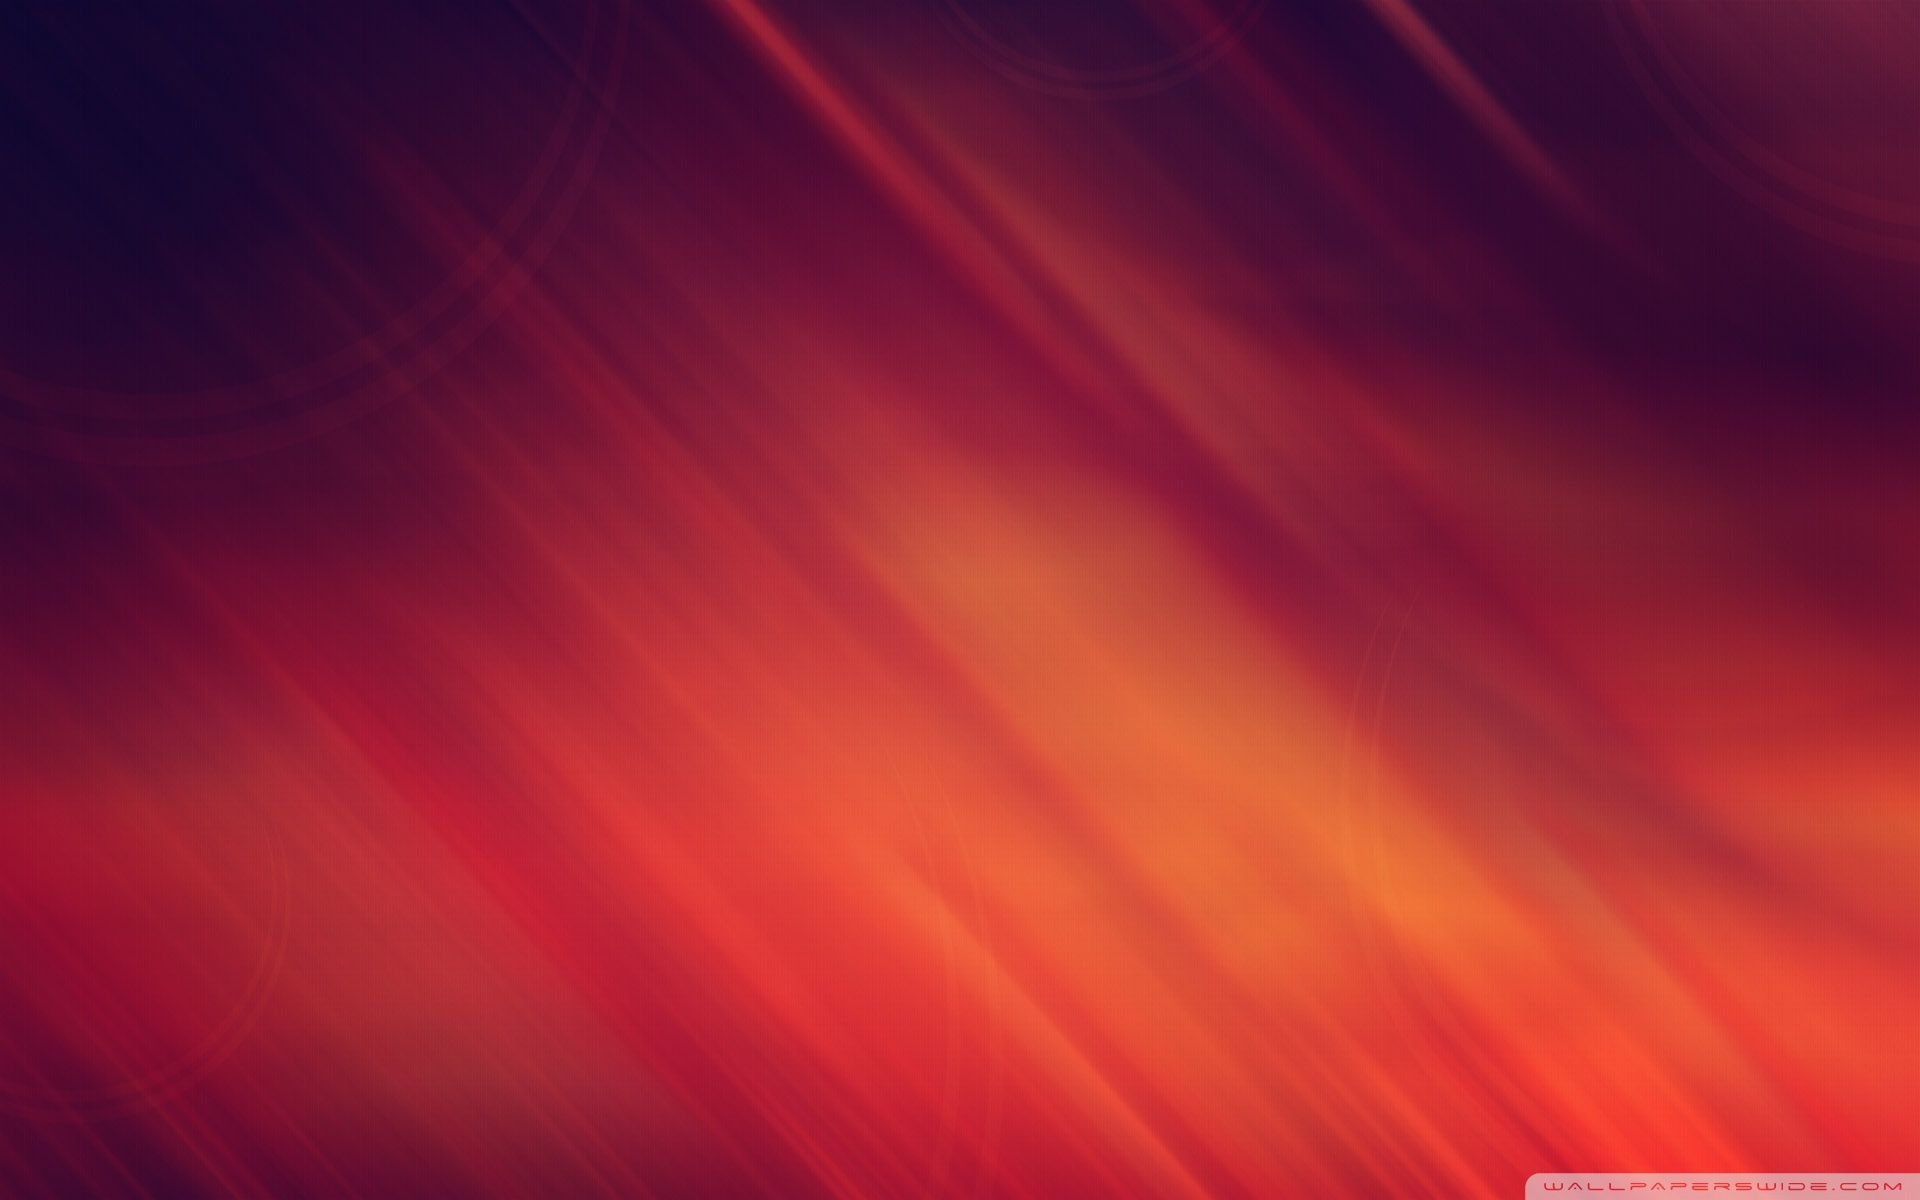
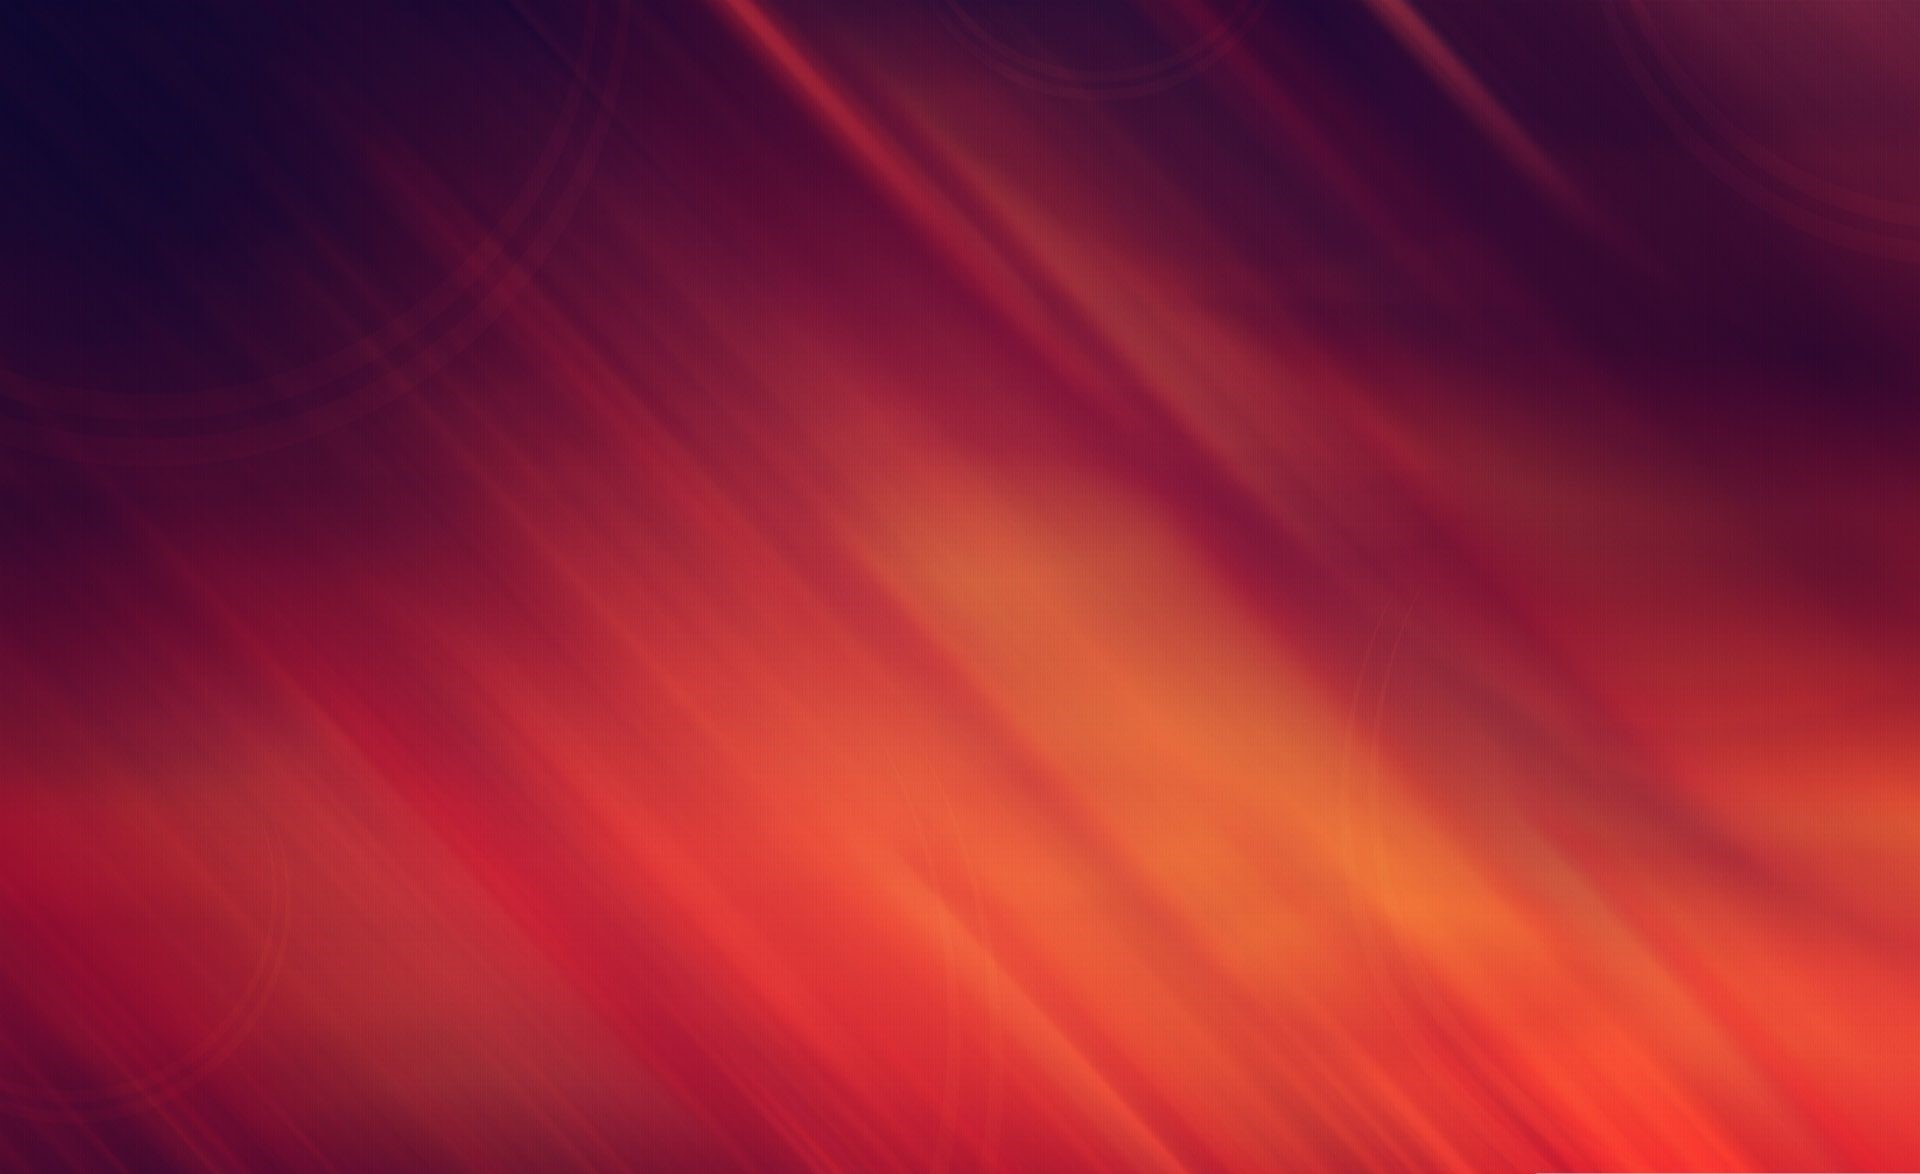
implemented background change on login component

diff --git a/src/app/main/login.component.ts b/src/app/main/login.component.ts
@@ -1,10 +1,25 @@
-import { Component } from '@angular/core';
+import { Component, OnInit, OnDestroy } from '@angular/core';
+import { ActivatedRoute } from '@angular/router';
 
 @Component({
-   templateUrl: './login.component.html',
-   styleUrls: ['./login.component.css'] 
+    templateUrl: './login.component.html',
+    styleUrls: ['./login.component.css']
 })
 
-export class LoginComponent {
+export class LoginComponent implements OnInit, OnDestroy {
+    currentPath: string;
+    body: HTMLBodyElement;
 
+    constructor(private route: ActivatedRoute) {
+        this.currentPath = this.route.snapshot.url[0].path;
+    }
+
+    ngOnInit(): void {
+        this.body = document.getElementsByTagName('body')[0];
+        this.body.classList.add(this.currentPath)
+    }
+    
+    ngOnDestroy(): void {
+        this.body.classList.remove(this.currentPath)      
+      }
 }

diff --git a/src/styles.css b/src/styles.css
@@ -3,13 +3,20 @@ html, body {
     font-family: 'Gill Sans', 'Gill Sans MT', Calibri, 'Trebuchet MS', sans-serif;
     margin: 0;
     overflow-x: hidden;
-    background-color: rgb(245, 247, 245);
+    background-color: rgb(220, 222, 220);
 }
 
 body{
     position: relative;
     min-height: 100vh;
     min-height: 100%;
+}
+
+.login{
+    background-image: url(./assets/images/bg.jpg);
+    background-attachment: fixed;
+    background-size: cover;
+    background-repeat: no-repeat;
 }
 
 

diff --git a/src/app/nav/navbar.component.html b/src/app/nav/navbar.component.html
@@ -13,7 +13,7 @@
               <a class="nav-link contact link" id="contact" [routerLink]="['/contact']" routerLinkActive="active" >Contact</a>
             </li>
             <li class="nav-item">
-              <a class="nav-link login link" id="login" [routerLink]="['/login']" routerLinkActive="active" >Login</a>
+              <a class="nav-link link" id="login" [routerLink]="['/login']" routerLinkActive="active" >Login</a>
             </li>
           </ul>
         </div>

diff --git a/src/app/main/login.component.css b/src/app/main/login.component.css
@@ -19,16 +19,18 @@
 
 .container {
     margin-top: 100px;
-    margin-bottom: 200px;
+    margin-bottom: 100px;
     width: 40%;
-    max-width: 500px;
+    max-width: 400px;
     min-width: 300px;
     background-color: white;
     padding: 10px;
     border-radius: 8px;
     position: relative;
 }
-
+:host.login{
+    background-color: rgb(187, 255, 0);
+}
 form {
     text-align: left;
     padding: 30px;

diff --git a/src/app/main/login.component.html b/src/app/main/login.component.html
@@ -13,7 +13,7 @@
                 <input type="password" required placeholder="Password">
             </p>
             <p class="button-wrapper">
-                <button class="login" type="submit" disabled>Sign In</button>
+                <button class="sign-in" type="submit" disabled>Sign In</button>
             </p>
         </form>
 

diff --git a/src/app/app.component.ts b/src/app/app.component.ts
@@ -1,4 +1,5 @@
 import { Component } from '@angular/core';
+import { ActivatedRoute } from '@angular/router';
 
 @Component({
   selector: 'app-root',
@@ -10,4 +11,6 @@ import { Component } from '@angular/core';
 })
 export class AppComponent {
   title = 'portfolio';
+
+
 }

diff --git a/src/app/main/contact.component.css b/src/app/main/contact.component.css
@@ -44,4 +44,9 @@ div.icons a svg{
         width: 90%;
 
     }
+
+    .div-main {
+        width: 100%;
+        text-align: center;
+        margin-top: 150px;}
 }
